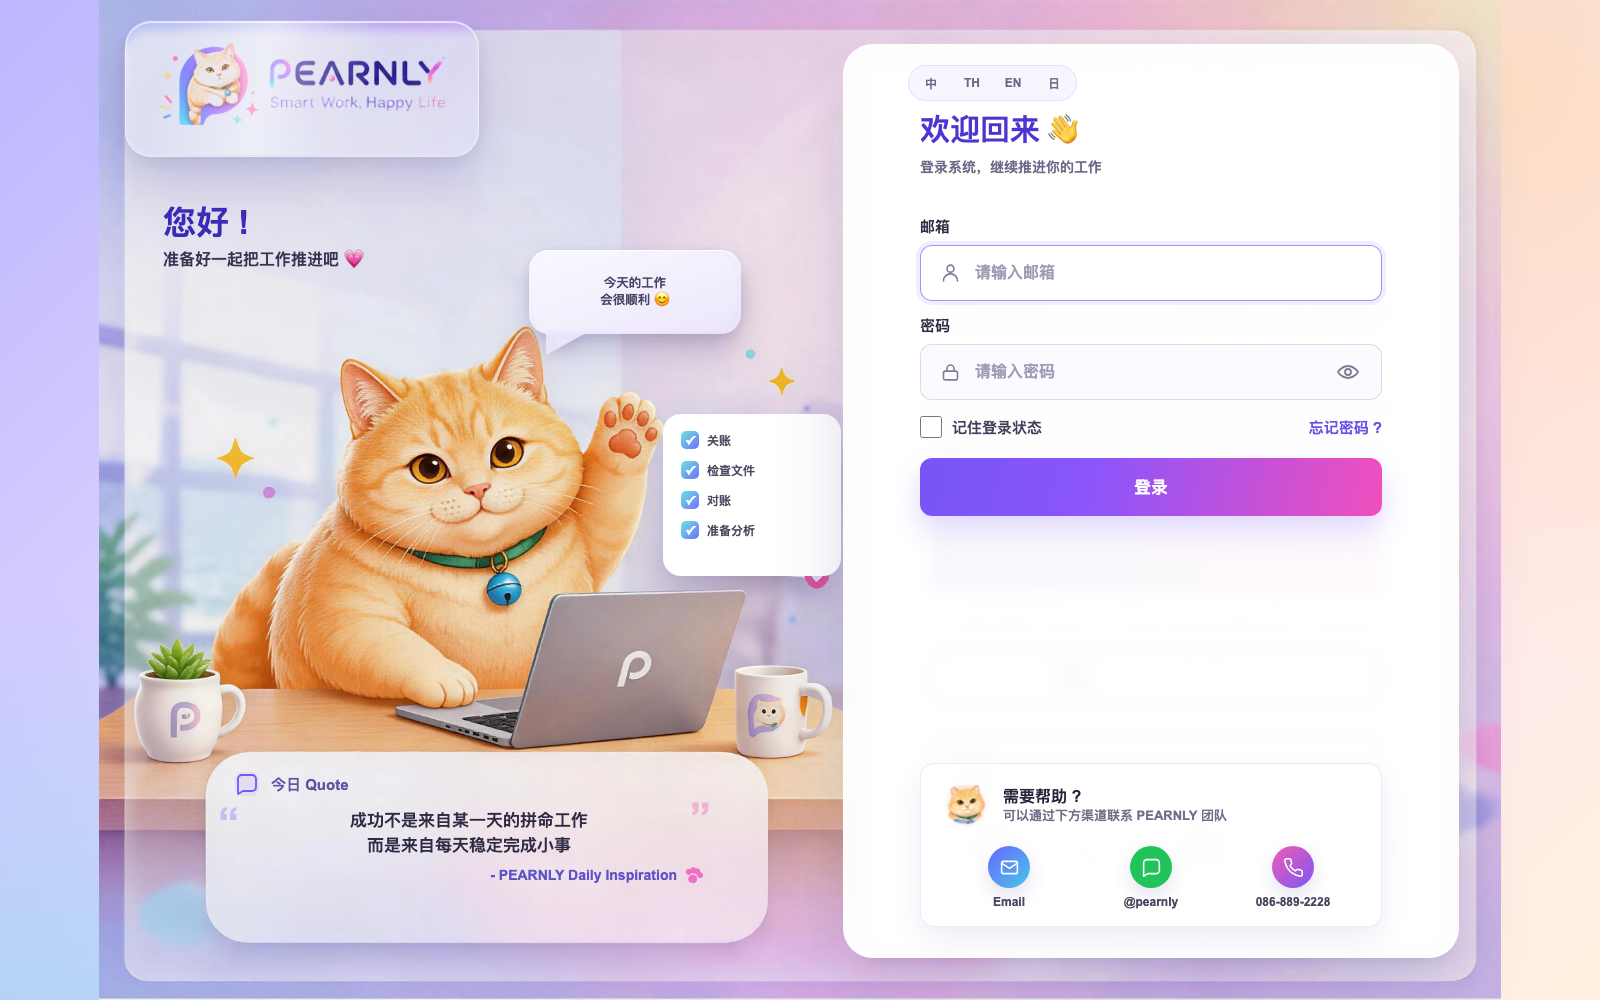
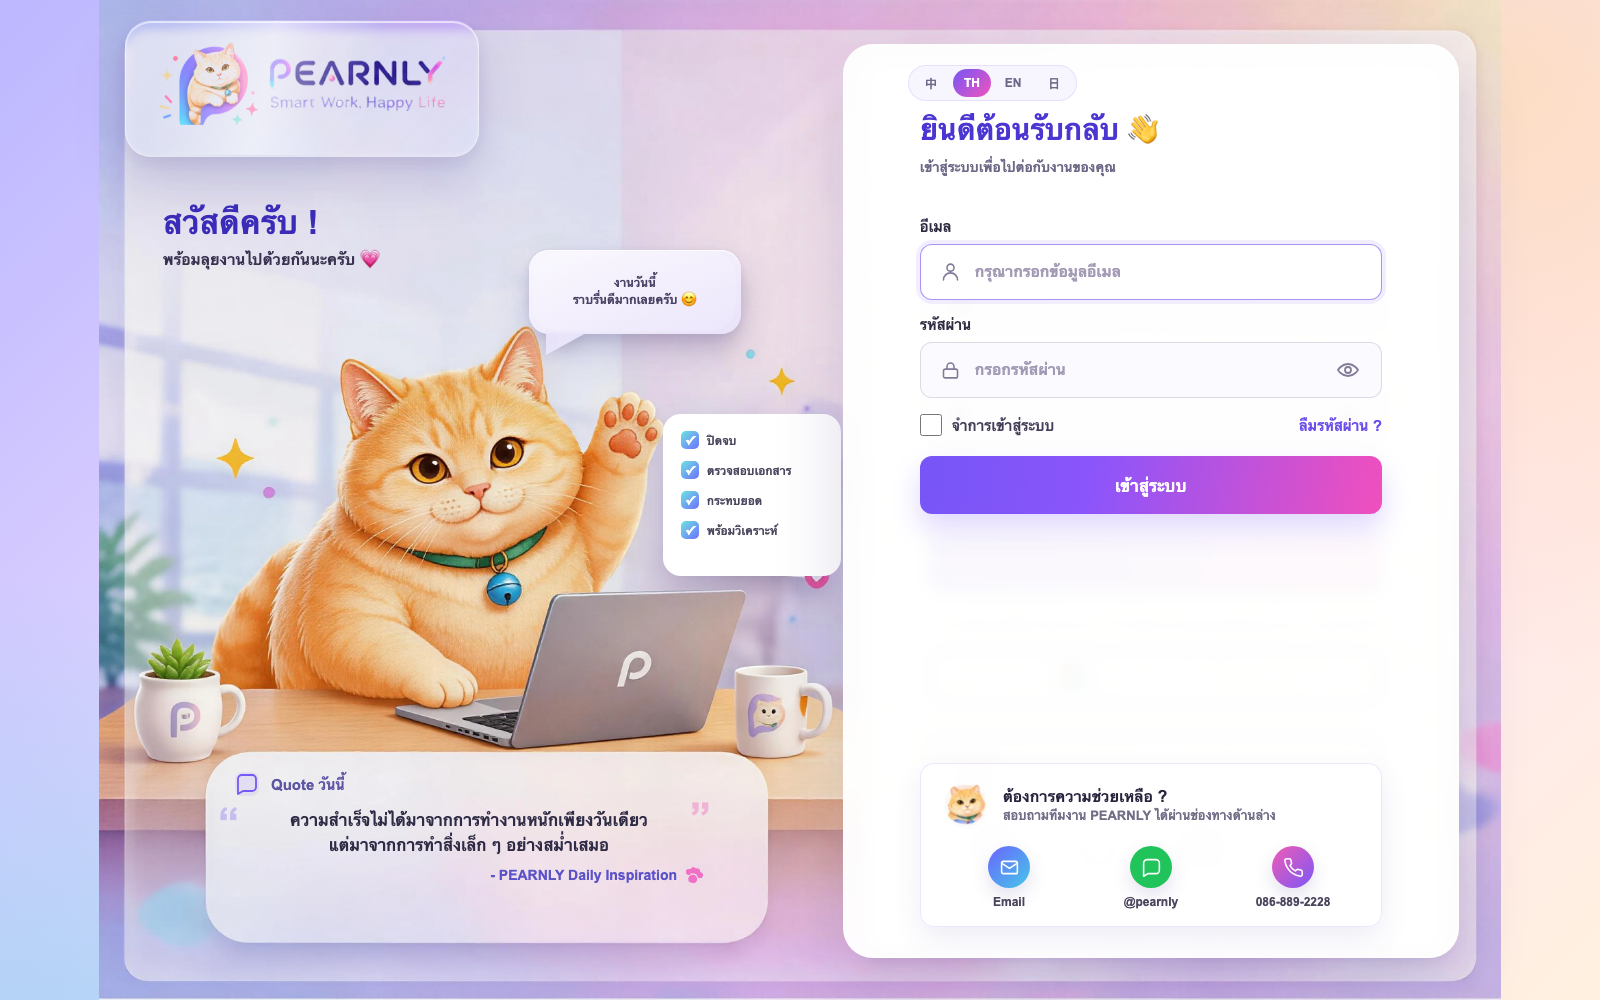
语言：新租户默认泰语 + 纠正缺译错译（ADR-006）
用户 2026-09-18 定的三条：新租户默认泰语、缺的错的要纠正、新功能在开发时补齐。

默认泰语：
- 租户登录口（pearnly-business）默认语言改成泰语，控制面（pearnly-platform）保持中文
- 开通收尾把站点 System Settings.language 设成租户默认语言，新建账号的
  User.language 跟着走；只对新账号设、不覆盖已有账号（重跑开通不顶掉用户的选择）
- 这套 realm 设置原来是敲 API 设的、仓库里没记录，补成可重复执行的
  scripts/sample-configure-login-theme.sh

实测的取值行为：泰/中/日/英浏览器各看各的，匹配不上的（如法语）才回落到泰语。

纠正缺译与错译：
- 日语"重置密码"页两处是我抄写时改写的，与旧页原文不一致，改回原文
- 有 3 条（新密码 / 确认密码 / 退出其它设备）Keycloak 标准键本就有准确译文，
  改为复用，删掉自建的；判定规则是"标准键在该语言下有译文且准确才复用"
  （泰语 updatePasswordTitle 译成"改进密码"、doSubmit 译成"发送"，这两个不准，自建）
- 泰语 showPassword 是空的、traceId 提示只有英文，自建补齐
- 四语文件键已完全对齐（各 40 条），所有取自旧页的文案经逐字比对无差异

顺带修掉一个静默 bug：语言切换的"当前选中"高亮从来没生效过 —— 原写法拿字符串比
Keycloak 的 Locale 对象，恒为 false；改用 l.active 又 500（该版本 Locale 没有这个
getter）。正确写法是 locale.currentLanguageTag。验证脚本已加一组专门盯它。

验证：scripts/sample-verify-login-theme.mjs 36 项全过（含默认语言与高亮在五种
浏览器语言下的表现）；站点语言与新账号语言都回读确认过，探针账号已清理。
镜像已重建、容器已重建，28 个容器全部 Up，控制面未受影响。

diff --git a/apps/pearnly_core/pearnly_core/provisioning.py b/apps/pearnly_core/pearnly_core/provisioning.py
@@ -14,6 +14,27 @@ from frappe import _
 from pearnly_core import identity
 
 
+# ── 语言 ────────────────────────────────────────────────────────────────────
+
+# 租户默认语言（用户 2026-09-18 定："新租户默认泰语"）。
+#
+# 为什么放在这里而不是硬编码进各处：语言是"租户的开通参数"，将来某个租户要中文，
+# 只需要在它的站点上写一条 `pearnly_default_language`，不用改代码。没写就是泰语。
+#
+# 覆盖到两处，缺一个都会"看着像泰语但其实是中文"：
+#   1. `System Settings.language` —— 未登录访客与系统兜底走它；
+#   2. 新建账号的 `User.language` —— 登录之后一切都看账号自己的语言。
+# Frappe 未登录时的取值顺序是 `_lang` → cookie → Accept-Language → 用户 → 系统，
+# 所以浏览器语言排在系统默认之前；这是 Frappe 定的，我们不去改它。
+TENANT_DEFAULT_LANGUAGE = "th"
+
+
+def tenant_default_language() -> str:
+    """本站点的默认语言。站点配置 `pearnly_default_language` 优先，否则租户默认值。"""
+    configured = str(frappe.conf.get("pearnly_default_language") or "").strip()
+    return configured or TENANT_DEFAULT_LANGUAGE
+
+
 def ensure_local_user(email: str, full_name: str, subject: str,
                       deployment_id: str | None = None,
                       role: str = "System Manager") -> dict:
@@ -37,6 +58,10 @@ def ensure_local_user(email: str, full_name: str, subject: str,
             "enabled": 1,
             "send_welcome_email": 0,
             "user_type": "System User",
+            # 新账号默认跟着租户语言走（泰语）。
+            # 只在**新建**时设：已有账号不覆盖，否则重跑开通会把用户自己
+            # 在界面上改过的语言又顶回去。
+            "language": tenant_default_language(),
         })
         user.insert(ignore_permissions=True)
         created = "created"
@@ -91,6 +116,9 @@ def finalize_site() -> dict:
         frappe.db.set_single_value("System Settings", "disable_user_pass_login", 1)
         # 免密码的"邮箱链接登录"也不在统一登录口内，一并关掉
         frappe.db.set_single_value("System Settings", "login_with_email_link", 0)
+        # 租户默认语言（见 TENANT_DEFAULT_LANGUAGE 的说明）。
+        # 只给业务站点设：控制面是老板自己用的，保持原样。
+        frappe.db.set_single_value("System Settings", "language", tenant_default_language())
     frappe.db.commit()
 
     frappe.clear_cache()
@@ -102,7 +130,11 @@ def finalize_site() -> dict:
         frappe.throw(
             f"收尾没成功：desktop:home_page={home_page!r} is_setup_complete={done}"
         )
-    return {"home_page": home_page, "is_setup_complete": done}
+    return {
+        "home_page": home_page,
+        "is_setup_complete": done,
+        "language": frappe.db.get_single_value("System Settings", "language"),
+    }
 
 
 # ── 功能权限落地 ────────────────────────────────────────────────────────────

diff --git a/docs/adr/0006-language-management.md b/docs/adr/0006-language-management.md
@@ -1,0 +1,154 @@
+# ADR-006 语言管理：跟着账号走，缺译错译要纠正
+
+状态：已选定（用户 2026-09-18 定："新租户默认泰语"、"缺的错的要纠正"、
+"新功能以后再说，做新功能就补"）。
+
+## 背景
+
+三个产品 + 控制面要给中文与泰语用户用，登录页也要多语言。旧系统确实已经有一套词典，
+但它解决不了新架构的问题。核过的现状：
+
+| 现象 | 证据 |
+|---|---|
+| 各模块各管一套词典 | `static/{landing,dms,ai,daily,admin}/…-i18n*.js` 各一份，另有 `landing-tour-i18n.js` |
+| 默认语言不一致 | 主站 `landing-i18n.js:368` 与 DMS 都硬编码回落 `'th'`，而 DMS 页面本身是中文 |
+| 语言靠浏览器共享 | 都读写同一个 localStorage 键 `mrpilot_lang` |
+
+**第三条在新架构上直接不成立**：Cowork / ERP / DMS 各是一个子域名，
+而 `localStorage` 按域隔离、不跨子域共享。旧系统能用是因为当时同域。
+所以"语言选择"必须跟着账号走，浏览器只能当本地缓存。
+
+## 决策
+
+### 1. 默认语言：租户默认泰语
+
+| 位置 | 默认 | 说明 |
+|---|---|---|
+| 租户登录页（`pearnly-business`） | **泰语** | 租户可在登录页自己切，切换结果记在账号上 |
+| 控制面登录页（`pearnly-platform`） | 中文 | 只有本人用（ADR-004） |
+| 租户站点（前台与后台） | **泰语** | 开通参数 `pearnly_default_language` 可按租户覆盖 |
+
+### 2. 取值顺序：照两个框架的既有规则，不自己造一套
+
+登录页（身份服务）：**账号已选语言 → 浏览器能匹配上的语言 → 租户默认（泰语）**。
+实测：泰语/中文/日语/英语浏览器各看各的，法语这种匹配不上的才回落到泰语。
+
+租户站点（Frappe）：`_lang` → cookie → `Accept-Language` → 用户 → 系统
+（顺序取自框架自己的文档字符串，`frappe/translate.py:33`）。
+
+两边共同的实质是：**登录之后一律跟账号走**。所以账号上必须存得住语言偏好
+（身份服务用用户 locale，Frappe 用 `User.language`），不能只存在浏览器里。
+
+### 3. 每一层的文案放在哪
+
+| 界面 | 方式 |
+|---|---|
+| 业务页面（Vue，见 ADR-005） | Vue I18n，按产品、模块划分语言资源 |
+| Frappe 原生页面 | 用框架自带的翻译机制；v16 新增翻译优先 PO |
+| 登录 / 忘记密码 / 改密（身份服务） | 主题的 `messages_*.properties`，四语各一份 |
+| LINE 消息、邮件、报表 | 服务端语言模板，发送时明确"这份要哪种语言"；不沿用管理员语言 |
+| WeKan | 保留原生语言包，只补 Pearnly 自定义部分 |
+
+统一的不是文件格式，而是**术语**与规则：同一个概念（账套、过账、提交）在四个界面里
+用同一个词。各框架用自己的标准格式（Vue I18n 用 js，Frappe 用 PO，Keycloak 用
+properties），不强行统一成一个文件。
+
+### 4. 缺译与错译：不许静默
+
+用户要求"缺的错的要纠正"，落成三条硬规则：
+
+1. **缺译不许静默降级**：不能让中文用户看到英文，更不能把键名（`pearnlyLoginBtn`）
+   当文案显示出来。缺了就补，补不了就报出来。
+2. **复用的键必须四语都准确**：要是某个语言下是空的或译得不对，就得自己写，
+   不能"借来用"。
+3. **新功能在开发时补齐四语**，不留到"以后统一补"。
+
+### 5. 能复用框架标准键就复用，译得不准才自建
+
+判定规则：Keycloak 标准键在该语言下**有译文且语义准确** → 直接用；
+**缺失、空白、或语义不准** → 自建。
+
+本轮实际判定（都有出处，不是凭感觉）：
+
+| 键 | 判定 | 依据 |
+|---|---|---|
+| `passwordNew`、`passwordConfirm`、`logoutOtherSessions` | **复用标准键** | 四语译文都准确（少维护 12 条） |
+| `updatePasswordTitle` | 自建 | 泰语译成 "ปรับปรุงรหัสผ่าน"，语义是"改进密码"，不准 |
+| `doSubmit` | 自建 | 泰语是 "ส่ง"（发送），而这个页面是"保存" |
+| `showPassword` | 自建 | 泰语译文是**空的** |
+| `traceIdSupportMessage` | 自建 | 只有英文，中文/泰语/日语都是空的 |
+
+## 本轮实际做了什么
+
+### 默认泰语
+
+| 改动 | 文件 |
+|---|---|
+| 租户 realm 默认语言改泰语、控制面保持中文，并写成可重复执行的脚本（原来是敲 API 设的，仓库里没记录） | `scripts/sample-configure-login-theme.sh` |
+| 开通收尾把站点语言设成租户默认语言 | `apps/pearnly_core/pearnly_core/provisioning.py` |
+| 新建账号带上租户默认语言 | 同上（`ensure_local_user`） |
+
+只在**新建账号**时设语言：已有账号不覆盖，否则重跑开通会把用户自己在界面上改过的
+语言顶回去。控制面刻意不受影响（靠 `pearnly_product` 区分，实测控制面语言仍为空）。
+
+### 纠正缺译与错译
+
+| 问题 | 处理 |
+|---|---|
+| 日语"重置密码"页两处是我抄写时改写的，与旧页原文不一致 | 改回原文（`登録メールを入力してください。再設定リンクを送信します。` / `送信`） |
+| 自建了 3 个标准键已有的条目 | 改用标准键，删掉自建的 |
+| 泰语缺 `showPassword`、三国语言缺 `traceId` 提示 | 自建补齐 |
+| **语言切换的"当前选中"高亮从来没生效过** | 修好（见下） |
+
+### 顺带修掉的一个静默 bug
+
+语言切换的"当前选中"高亮**一直是失效的**：原写法拿字符串去比 Keycloak 的 Locale
+对象，两边类型不同恒为 false，四个标签永远都是空 class —— 页面上完全看不出来。
+中途我改成 `l.active` 又把页面打成 500，因为这个版本的 `LocaleBean$Locale`
+（`org.keycloak.theme.beans`）只有 `languageTag / label / url` 三个 getter，没有 `active`。
+正确写法是 `locale.currentLanguageTag`（`LocaleBean` 上确实有这个 getter）。
+现在验证脚本里有专门一条盯着它，包括五种浏览器语言下的表现。
+
+## 验证
+
+`scripts/sample-verify-login-theme.mjs` 共 **36 项，全部通过**。与语言相关的：
+
+| 项 | 验到了什么 |
+|---|---|
+| 语言标签顺序 | 「中 / TH / EN / 日」四个短标签，悬停显示完整名字 |
+| 切换语言 | 切英文/泰文，标题真的变，切回中文正常 |
+| **默认语言** | 泰/中/日/英浏览器各看各的，匹配不上的回落到泰语 |
+| **当前语言高亮** | 五种浏览器语言下，高亮项与页面语言一致 |
+| 忘记密码页 | 与登录页同一套外壳，且按当前语言渲染 |
+| 租户站点语言 | 开通收尾后 `System Settings.language = 'th'`（回读确认） |
+| 新账号语言 | 新建账号 `User.language = 'th'`（回读确认，探针账号已删） |
+
+## 被否的方案
+
+**把语言只存在浏览器里**（旧系统的做法）。子域名架构下不成立：三个产品各自一个域名，
+`localStorage` 不共享，用户在 Cowork 选了泰语，进 ERP 又变回默认。
+
+**缺译时用英文兜底。** 中文与泰语租户会突然看到一句英文，用户已经把这条定为"要纠正"的
+问题。缺译必须补，不能靠兜底掩盖。
+
+**另起一套统一翻译平台 / 每次打开页面调 AI 翻译。** 不需要：初期语言资源随代码走即可，
+不增服务器、不依赖外部服务，也避免每次打开页面都产生一次外部调用。
+
+## 后果与约束
+
+- **语言偏好是账号数据**，不是浏览器数据。身份服务与 Frappe 侧各存一份，
+  登录时以账号为准。
+- **前端 i18n 框架还没建。** ADR-005 的 Vue 工程还没起，所以"业务页面用 Vue I18n"
+  目前只是一条方向；现在真正齐的只有登录主题这一层。
+- **术语表还没建。** 跨四个界面的统一用词（账套、过账、提交…）需要一份对照表，
+  这是下一步的事，本轮没有编。
+- **翻译完整性检查还没接进发布闸门。** 现在只有登录主题能靠验证脚本兜住；
+  Frappe 侧的 PO/CSV 与业务页面的词典还没有检查手段。
+- **日期、时区、泰国佛历是另一件事**，不在本决策内。
+- 切换语言**不改业务数据**：客户名称、发票原文、账套币种不随界面语言变化。
+
+## 边界（明确没做）
+
+- 没做按租户逐个指定语言的开通界面：现在只有默认值 + 站点配置可覆盖。
+- 没做"发送 LINE 消息时用收件人的语言"：那属于消息模板，随对应功能一起做。
+- 没做手机号登录（身份服务原生不支持，不另造）。

diff --git a/docs/p4/10-login-theme.md b/docs/p4/10-login-theme.md
@@ -66,6 +66,27 @@ auth-shell  1402×1122    背景 = 一整张图 auth-bg-desktop.png（4096×3291
 
 截图：`docs/p4/evidence/login-theme-{desktop,error,forgot,mobile,mobile-sheet}.png`。
 
+## 语言（详见 ADR-006）
+
+登录页的语言设置原来是我直接敲 API 设的，仓库里没有记录，现在补成了可重复执行的
+`scripts/sample-configure-login-theme.sh`：
+
+| realm | 默认语言 |
+|---|---|
+| `pearnly-business`（租户登录口） | **泰语**（用户 2026-09-18 定："新租户默认泰语"） |
+| `pearnly-platform`（控制面登录口） | 中文（只有老板自己用，ADR-004） |
+
+实测的取值行为：泰语/中文/日语/英语浏览器各看各的，**匹配不上的浏览器（如法语）
+才回落到默认的泰语**；登录页上仍可自己切，切换结果记在账号上。
+
+顺手修掉一个静默 bug：语言切换的"当前选中"高亮**从来没生效过** ——
+原写法拿字符串比 Keycloak 的 Locale 对象，恒为 false，四个标签永远是空 class。
+正确写法是 `locale.currentLanguageTag`（`l.active` 在这个版本不存在，会 500）。
+现在验证脚本里有专门一组盯着它。
+
+日语文案里有两处是我抄写时改写的、与旧页原文不一致，已改回原文；另有 3 条标准键
+本就有准确译文（新密码 / 确认密码 / 退出其它设备），已改为复用标准键。
+
 ## 边界（哪些没做 / 不确定）
 
 - 登录页**只在本机 Colima 里的身份服务上验证过**，没有部署到服务器，也没有真机验收。

diff --git a/infrastructure/keycloak/themes/pearnly/README.md b/infrastructure/keycloak/themes/pearnly/README.md
@@ -50,5 +50,24 @@ login/
 cd /Users/skin/pearnly && node scripts/sample-verify-login-theme.mjs
 ```
 
-31 项，覆盖入口、几何（与线上量出来的卡片位置比对）、底图、文案、语言切换、
-密码错误提示、真实登录、忘记密码页、手机端。截图落在 `docs/p4/evidence/`。
+36 项，覆盖入口、几何（与线上量出来的卡片位置比对）、底图、文案、语言切换、
+默认语言与高亮、密码错误提示、真实登录、忘记密码页、手机端。
+截图落在 `docs/p4/evidence/`。
+
+## 语言设置
+
+默认语言与支持语言在 **realm** 上（不在主题里），用脚本改：
+
+```bash
+cd /Users/skin/pearnly && scripts/sample-configure-login-theme.sh
+```
+
+租户登录口默认泰语，控制面默认中文 —— 取法与理由见
+[ADR-006](../../../../docs/adr/0006-language-management.md)。
+
+改文案时注意两条（ADR-006）：
+
+1. **四个 `messages_*.properties` 的键必须完全对齐**，缺一条别的语言就会露英文或键名；
+2. **能复用 Keycloak 标准键就复用**，但前提是该语言下译文存在且准确 ——
+   例如泰语的 `showPassword` 是空的、`traceIdSupportMessage` 只有英文，
+   这两个就得自建。

diff --git a/docs/p4/06-provisioning.md b/docs/p4/06-provisioning.md
@@ -98,7 +98,10 @@ cookie；curl 的"localhost 例外"范围更窄（只认 `127.0.0.1` / `localhos
   落点是 `/desk`（**不是设置向导**），**无 JS 报错**。
   截图：`docs/p4/evidence/tenant-login.png`。
 - **幂等**：重跑 `run` 输出"没有待办步骤了"，不重复建资源。
-- **收尾**：`finalize_site` 返回 `{"home_page":"desktop","is_setup_complete":true}`。
+- **收尾**：`finalize_site` 返回 `{"home_page":"desktop","is_setup_complete":true,"language":"th"}`。
+  `language` 是**租户默认语言**（ADR-006：新租户默认泰语）：收尾时把站点
+  `System Settings.language` 设成它，新建账号的 `User.language` 也用它。
+  只对新账号设、不覆盖已有账号，否则重跑开通会把用户自己改过的语言顶回去。
 
 ## 踩到的坑（都会复发）
 

diff --git a/docs/adr/README.md b/docs/adr/README.md
@@ -7,6 +7,7 @@
 - [ADR-001 原生 Frappe Site 路线](0001-native-frappe-site.md)
 - [ADR-002 目标机与外部依赖保留范围](0002-deployment-target.md)
 - [ADR-005 前端架构：Frappe 原生后台打底 + 新建业务页面用 Vue 3](0005-frontend-architecture.md)
+- [ADR-006 语言管理：跟着账号走，缺译错译要纠正](0006-language-management.md)
 
 待定稿：
 
